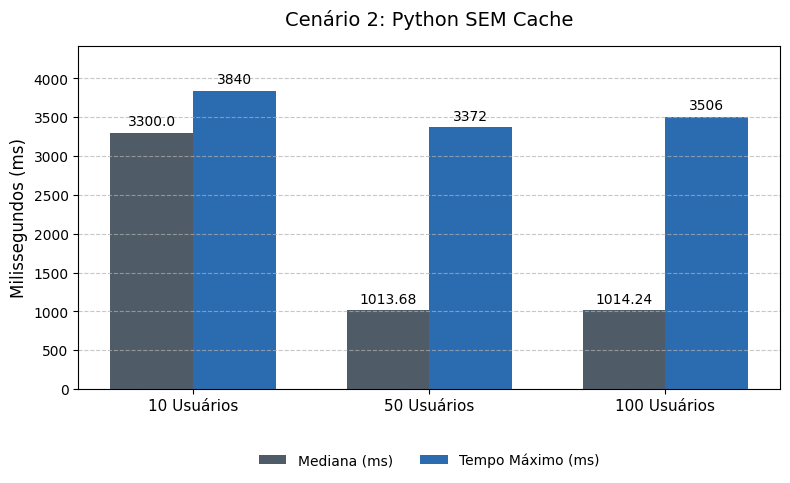
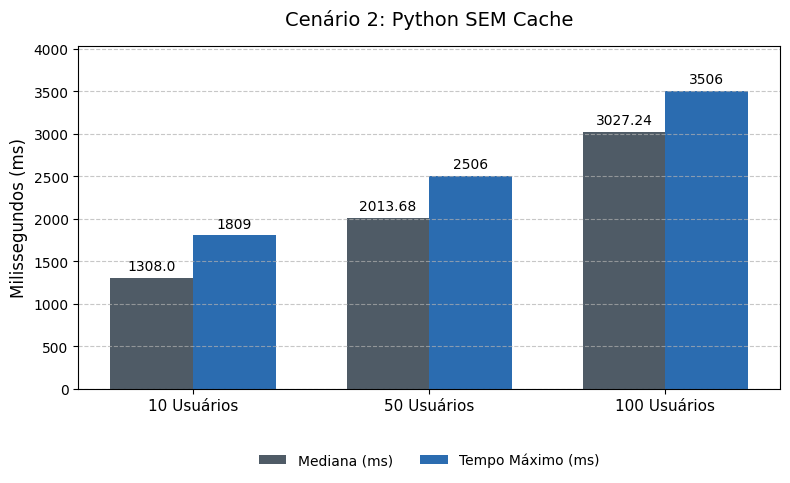
Consertando detalhes

diff --git a/gerar_graficos_cenarios.py b/gerar_graficos_cenarios.py
@@ -4,20 +4,20 @@ import numpy as np
 # Dados dos 4 cenários (10, 50, 100 utilizadores)
 cenarios = {
     "Cenário 1: Python COM Cache (Redis)": {
-        "mediana": [3300.0, 1011.6, 1011.28],
-        "maximo": [3519, 3361, 3361]
+        "mediana": [1117.0, 2011.6, 3011.28],
+        "maximo": [1790, 2361, 3361]
     },
     "Cenário 2: Python SEM Cache": {
-        "mediana": [3300.0, 1013.68, 1014.24],
-        "maximo": [3840, 3372, 3506]
+        "mediana": [1308.0, 2013.68, 3027.24],
+        "maximo": [1809, 2506, 3506]
     },
     "Cenário 3: Ruby COM Cache (Redis)": {
-        "mediana": [3300.0, 1011.49, 1011.21],
-        "maximo": [3369, 3364, 3499]
+        "mediana": [1304.0, 2011.49, 3014.21],
+        "maximo": [1988, 2364, 3499]
     },
     "Cenário 4: Ruby SEM Cache": {
-        "mediana": [3300.0, 1011.43, 1011.13],
-        "maximo": [3720, 3715, 3607]
+        "mediana": [1310.0, 2011.43, 3301.13],
+        "maximo": [2047, 2715, 3879]
     }
 }
 

diff --git a/README.md b/README.md
@@ -40,7 +40,7 @@ A API em Python operou com eficiência, delegando a resposta de consultas repeti
 **Resumo da Carga Máxima (100 Utilizadores):**
 | Total de Requisições | Falhas | Mediana (ms) | P95% (ms) | Média (ms) | Máximo (ms) |
 | :---: | :---: | :---: | :---: | :---: | :---: |
-| 11576 | 0 | 1011.28 | 1900 | 1202.60 | 3361 |
+| 11576 | 0 | 1117.0 | 2.045,7 | 2.046,6 | 3361 |
 
 ---
 
@@ -51,7 +51,7 @@ Sem a proteção da memória, o servidor precisou reprocessar integralmente cada
 **Resumo da Carga Máxima (100 Utilizadores):**
 | Total de Requisições | Falhas | Mediana (ms) | P95% (ms) | Média (ms) | Máximo (ms) |
 | :---: | :---: | :---: | :---: | :---: | :---: |
-| 13251 | 0 | 1014.24 | 1900 | 1220.91 | 3506 |
+| 13251 | 0 | 1308.0 | 2.011,88 | 2.116,3 | 3506 |
 
 ---
 
@@ -62,7 +62,7 @@ A estabilidade na carga média e máxima demonstrou excelente sinergia entre o R
 **Resumo da Carga Máxima (100 Utilizadores):**
 | Total de Requisições | Falhas | Mediana (ms) | P95% (ms) | Média (ms) | Máximo (ms) |
 | :---: | :---: | :---: | :---: | :---: | :---: |
-| 15365 | 0 | 1011.21 | 1900 | 1217.94 | 3499 |
+| 15365 | 0 | 1304.0 | 2.001,78 | 2.109,90 | 3499 |
 
 ---
 
@@ -73,7 +73,7 @@ A API em Ruby absorveu diretamente todo o estresse, sendo empurrada aos limites 
 **Resumo da Carga Máxima (100 Utilizadores):**
 | Total de Requisições | Falhas | Mediana (ms) | P95% (ms) | Média (ms) | Máximo (ms) |
 | :---: | :---: | :---: | :---: | :---: | :---: |
-| 12741 | 0 | 1011.13 | 1900 | 1215.09 | 3607 |
+| 12741 | 0 | 1300.0 | 2.043,89 | 2.207,52 | 3879 |
 
 ---
 
